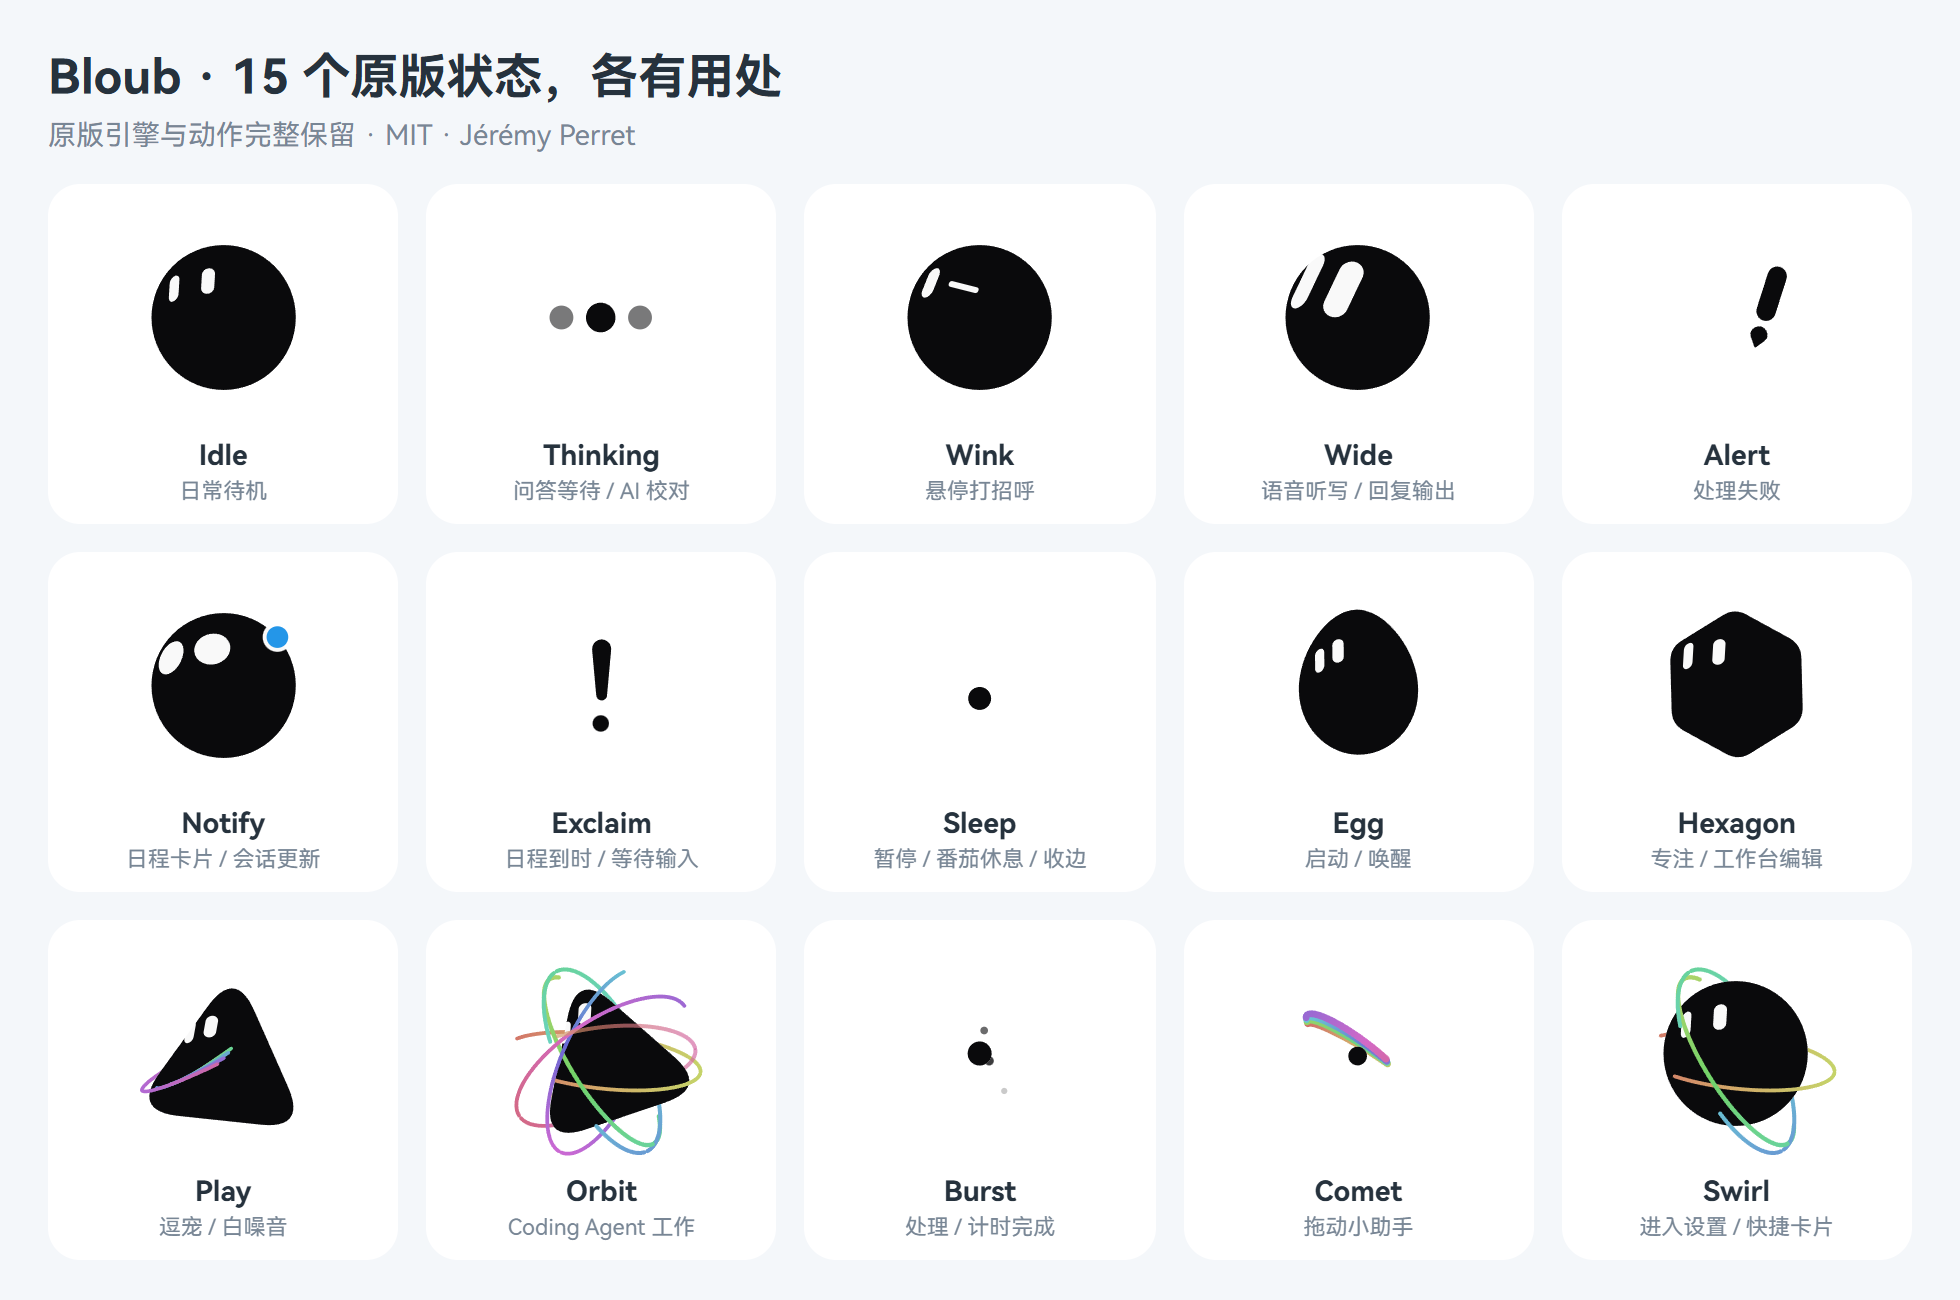
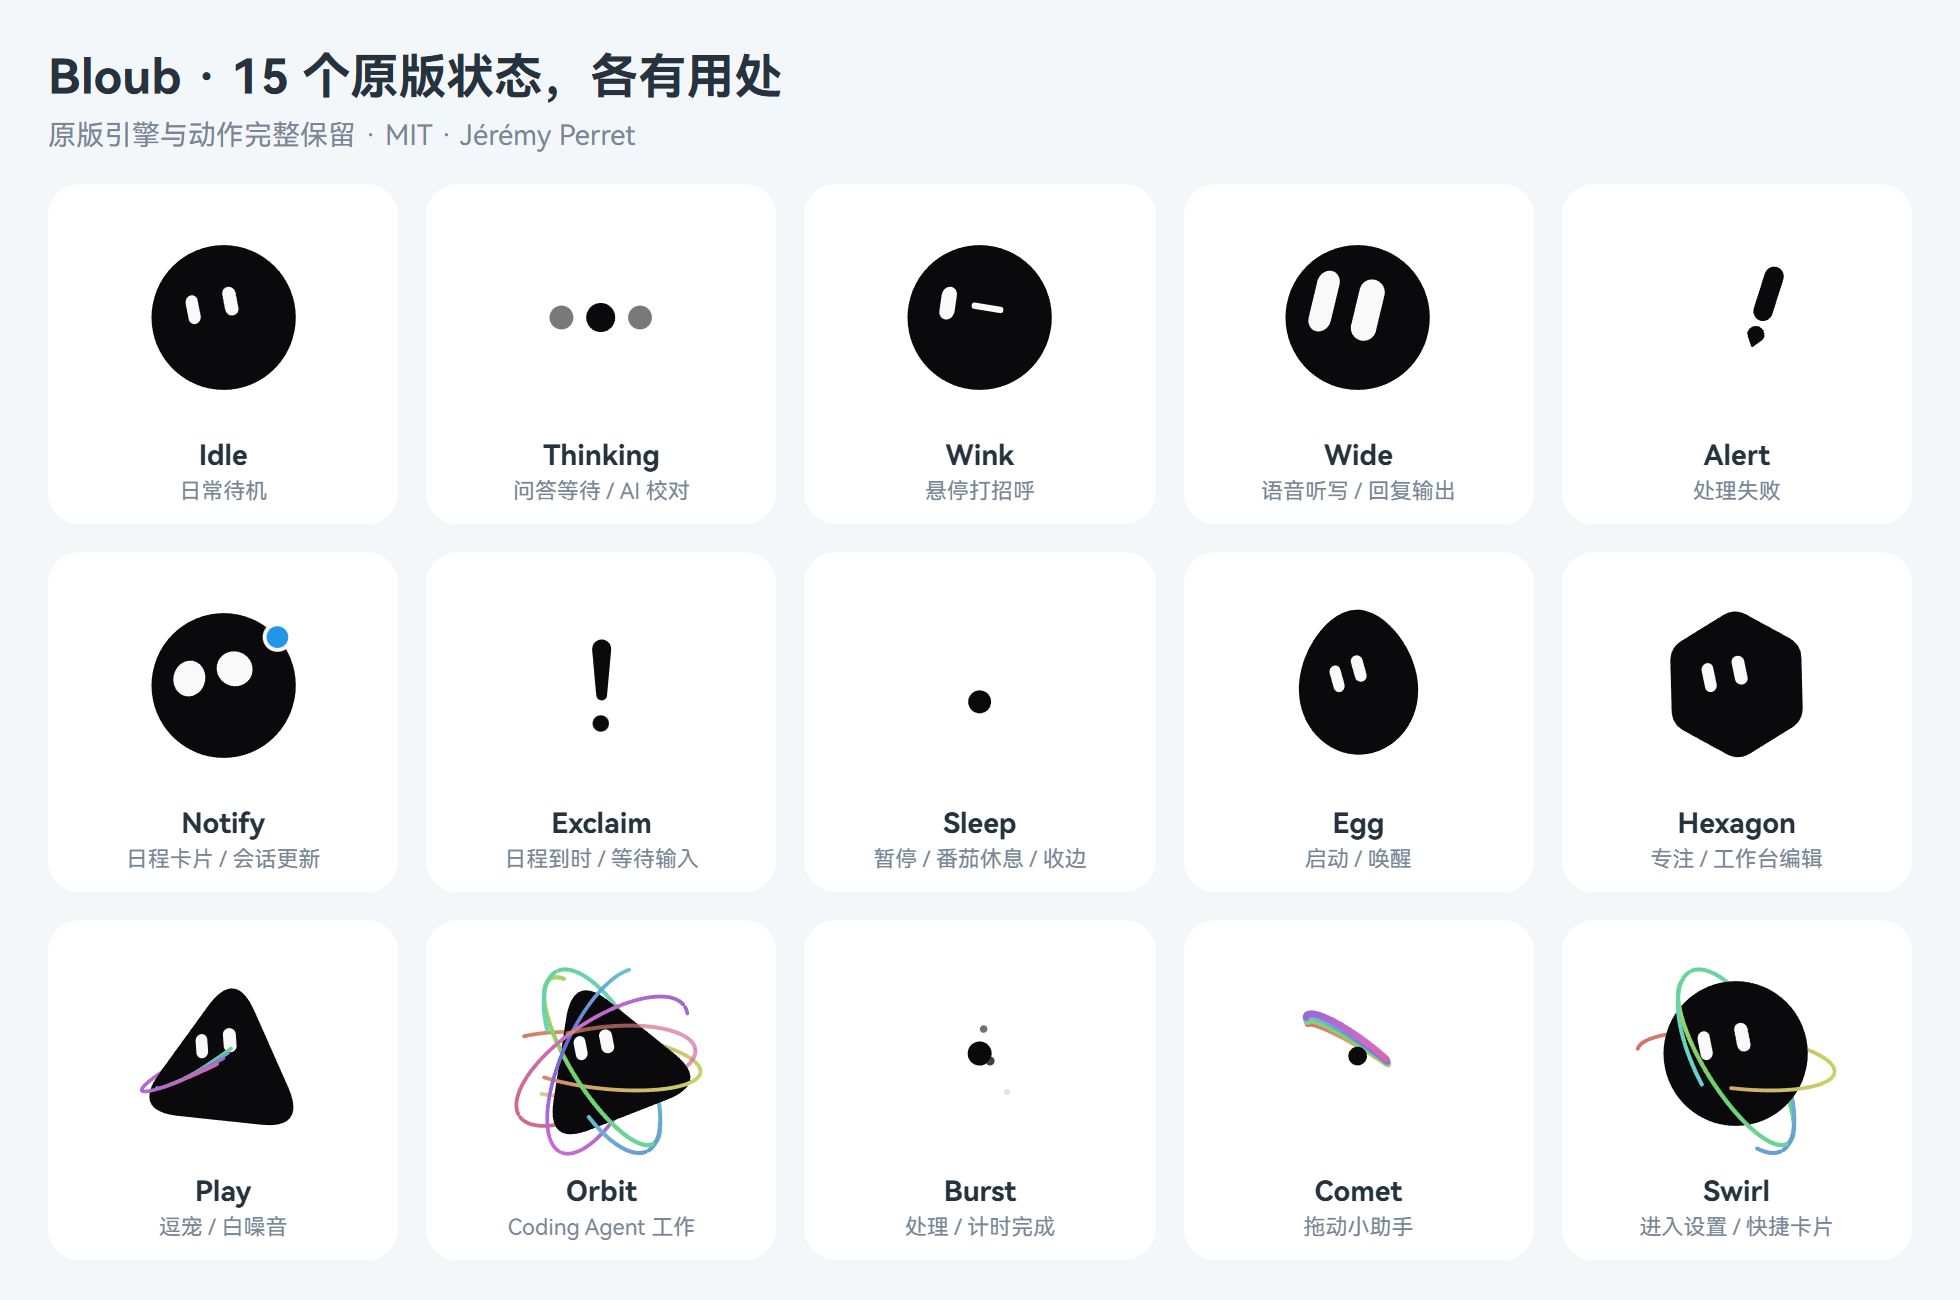
Bring Bloub gaze toward the viewer across all states

diff --git a/tests/bloub.test.js b/tests/bloub.test.js
@@ -39,26 +39,28 @@ test('idle rests and wakes; low-priority greetings do not replace a completion o
  const p=new ScenePlayer();assert.equal(p.sample(33).state,'sleep');assert.equal(p.sample(42.2).state,'egg');assert.equal(p.sample(44).state,'idle');
  assert.equal(p.pulse('completed',45),true);assert.equal(p.pulse('greeting',45.1),false);assert.equal(p.sample(45.2).state,'burst');assert.equal(p.pulse('failed',45.3),true);assert.equal(p.sample(45.3).state,'alert');
 });
-test('every native state and transition keeps its visible eye focus upper-left',()=>{
+test('every native state and transition keeps its visible eyes near the face center, facing the viewer',()=>{
  const scope={};vm.runInNewContext(fs.readFileSync(path.join(__dirname,'../assets/pets/bloub/engine.js'),'utf8'),scope);
  const engine=new scope.Bloub.BotEngine(100);engine.setLook(gazeFor('idle'),-1);let time=2,visible=0;
  for(const state of scope.Bloub.STATES){
-  const look=gazeFor(state.id);assert.ok(look.yaw<0&&look.pitch>0,state.id);assert.equal(look.mix,1);
+  const look=gazeFor(state.id);assert.equal(look.yaw,-10,state.id);assert.equal(look.pitch,10,state.id);assert.equal(look.mix,1);
   engine.setState(state.id,time);engine.setLook(look,time,.18);
   for(const offset of [0,.03,.1,.25,.5,.8,1.2,1.8,2.4,3]){
    const frame=engine.sample(time+offset),eyes=frame.eyes.filter(e=>e.alpha>.05);if(frame.bodyAlpha<.05||eyes.length!==2)continue;
    const centers=eyes.map(e=>e.matrix.match(/matrix\(([^)]+)\)/)[1].split(/[ ,]+/).map(Number));
-   assert.ok(centers.reduce((sum,m)=>sum+m[4],0)/2<0,`${state.id} at ${offset}: left`);
-   assert.ok(centers.reduce((sum,m)=>sum+m[5],0)/2<0,`${state.id} at ${offset}: up`);visible++;
+   const x=centers.reduce((sum,m)=>sum+m[4],0)/2,y=centers.reduce((sum,m)=>sum+m[5],0)/2;
+   assert.ok(x<0&&y<0,`${state.id} at ${offset}: slight left/up bias`);
+   assert.ok(Math.hypot(x,y)<32,`${state.id} at ${offset}: gaze stays within 32% of the resting body radius`);visible++;
   }time+=4;
  }assert.ok(visible>70,'checks actual projected eyes through animation and transition frames');
 });
-test('pointer following cannot turn any Bloub state to the right or down',()=>{
+test('pointer following stays close to the viewer-facing center across all Bloub states',()=>{
  const scope={};vm.runInNewContext(fs.readFileSync(path.join(__dirname,'../assets/pets/bloub/engine.js'),'utf8'),scope);
  for(const state of scope.Bloub.STATES)for(const x of [-2,-1,0,1,2,NaN])for(const y of [-2,-1,0,1,2,NaN]){
-  const look=gazeFor(state.id,{x,y});assert.ok(look.yaw<0&&look.pitch>0,`${state.id}: ${x},${y}`);
+  const look=gazeFor(state.id,{x,y});assert.ok(look.yaw>=-13&&look.yaw<=-7&&look.pitch>=8&&look.pitch<=12,`${state.id}: ${x},${y}`);
   const engine=new scope.Bloub.BotEngine(100,state.id);engine.setLook(look,-1);const frame=engine.sample(.7);if(frame.eyes.length!==2)continue;
   const centers=frame.eyes.map(e=>e.matrix.match(/matrix\(([^)]+)\)/)[1].split(/[ ,]+/).map(Number));
-  assert.ok(centers.reduce((sum,m)=>sum+m[4],0)<0&&centers.reduce((sum,m)=>sum+m[5],0)<0,`${state.id}: projected upper-left`);
+  const eyeX=centers.reduce((sum,m)=>sum+m[4],0)/2,eyeY=centers.reduce((sum,m)=>sum+m[5],0)/2;
+  assert.ok(eyeX<0&&eyeY<0&&Math.hypot(eyeX,eyeY)<32,`${state.id}: projected eyes stay near center`);
  }
 });

diff --git a/assets/pets/bloub/avatar.js b/assets/pets/bloub/avatar.js
@@ -11,7 +11,7 @@
   const body=node('g',{opacity:frame.bodyAlpha},[node('path',{d:frame.bodyPath,fill:paper}),node('g',{mask:'url(#eyes-mask)'},[node('rect',{x:-158,y:-158,width:316,height:316,fill:ink})])]);
   svg.replaceChildren(defs,arcs('back'),...(frame.dotsBehind?[dots()]:[]),body,...(!frame.dotsBehind?[dots()]:[]),...(frame.notif?[node('circle',{cx:frame.notif.x,cy:frame.notif.y,r:frame.notif.r,fill:NOTIF_BLUE})]:[]),arcs('front'));
  }
- function look(now){engine.setLook(window.BloubScenes.gazeFor(svg.dataset.animation||'idle',pointer),now,.18);svg.dataset.gaze='upper-left';}
+ function look(now){engine.setLook(window.BloubScenes.gazeFor(svg.dataset.animation||'idle',pointer),now,.18);svg.dataset.gaze='viewer';}
  function advance(now){const next=player.sample(now);svg.dataset.state=player.base;svg.dataset.scene=next.scene;svg.dataset.animation=next.state;if(next.changed){engine.setState(next.state,now);look(now);}if(!reduced||next.changed)render(engine.sample(reduced?now+window.Bloub.POSES[next.state]:now));}
  window.addEventListener('message',e=>{
   if(e.source!==parent||preview)return;const data=e.data,now=performance.now()/1000;

diff --git a/assets/pets/bloub/scenes.js b/assets/pets/bloub/scenes.js
@@ -21,11 +21,11 @@
  };
  const MINIMUM={alert:2,burst:2.4,comet:2.4,orbit:2.5,swirl:1.3};
  function gazeFor(animation,pointer){
-  // The companion usually lives on the right edge, facing the workspace.
+  // Face the person in front of the screen, with only a slight left/up bias.
   // Override every native pose, including orbit, without mirroring its artwork.
-  // Bounded tracking keeps both coordinates in the upper-left quadrant.
+  // Keep pointer tracking close to the face center instead of looking off-screen.
   const follow=['idle','swirl'].includes(animation),bounded=value=>Number.isFinite(value)?Math.max(-1,Math.min(1,value)):0;
-  return {yaw:-32+(follow?bounded(pointer?.x)*8:0),pitch:28-(follow?bounded(pointer?.y)*6:0),mix:1,spin:0,wander:0};
+  return {yaw:-10+(follow?bounded(pointer?.x)*3:0),pitch:10-(follow?bounded(pointer?.y)*2:0),mix:1,spin:0,wander:0};
  }
  class ScenePlayer{
   constructor(now=0){this.base='idle';this.baseAt=now;this.pulseScene=null;this.pulseUntil=0;this.current=null;this.holdUntil=0;}

diff --git a/assets/pets/bloub/SOURCE.md b/assets/pets/bloub/SOURCE.md
@@ -8,4 +8,4 @@ Copyright © 2026 Jérémy Perret. MIT license in LICENSE.
 
 The complete framework independent bot engine, shape profiles, states, expressions, particles, arcs and morphing logic are preserved in `upstream/`. Feimo's `avatar.js` renders the original engine's SVG frames and maps assistant states to its animations. `engine.js` is built with `npm run build:bloub`. The page background is transparent; the original paper backing is applied only to the body silhouette to occlude particles behind the eyes. Settings/header thumbnails sample an idle frame without an animation loop.
 
-`scenes.js` schedules all 15 original states (14 catalogue actions plus the original settings transition, swirl) from real assistant contexts. Finite orbit/comet/play actions replay through idle bridges; upstream minimum reassembly durations are preserved for lower-priority transitions. `lib/pet-scenes.js` routes voice phases, first-token/streaming responses, focus/break timers, audio playback and workbench contexts. The native look override keeps every state's eye focus upper-left, toward the workspace when the pet sits on the right edge, including orbit and transitions. Idle/swirl retain modest pointer tracking bounded to this quadrant. Native expressions, blinking, body morphing, particles and orbital arcs remain intact. The initial gaze settles before the first visible frame; preview thumbnails share the same direction. The upstream animation source remains unchanged.
+`scenes.js` schedules all 15 original states (14 catalogue actions plus the original settings transition, swirl) from real assistant contexts. Finite orbit/comet/play actions replay through idle bridges; upstream minimum reassembly durations are preserved for lower-priority transitions. `lib/pet-scenes.js` routes voice phases, first-token/streaming responses, focus/break timers, audio playback and workbench contexts. The native look override brings every state's eyes toward the face center, looking at the viewer with a slight left/up bias (yaw −10°, pitch +10°), including orbit and transitions. Idle/swirl retain small pointer tracking (±3° yaw, ±2° pitch). Native expressions, blinking, body morphing, particles and orbital arcs remain intact. The initial gaze settles before the first visible frame; preview thumbnails share the same direction. The upstream animation source remains unchanged.

diff --git a/RELEASE_NOTES.md b/RELEASE_NOTES.md
@@ -1,5 +1,11 @@
 # Release notes
 
+## 1.5.3
+
+- Bloub 各状态的视线向脸部中央收回，保留轻微向左、向上的朝向，更自然地面对屏幕前的用户。
+- 收紧待机和设置状态的鼠标跟随幅度；工作台、设置中的头像采用相同视线。
+- 保留原版眨眼、表情、变形和环绕动作，更新 15 状态预览图。
+
 ## 1.5.2
 
 - 修复 Chromium 空白富文本框把占位提示当成正文的问题：首次写入后确认虚拟占位文本消失，重新建立本次听写的文本范围，继续追加与校对替换；保留原有正文、选区和光标保护。
